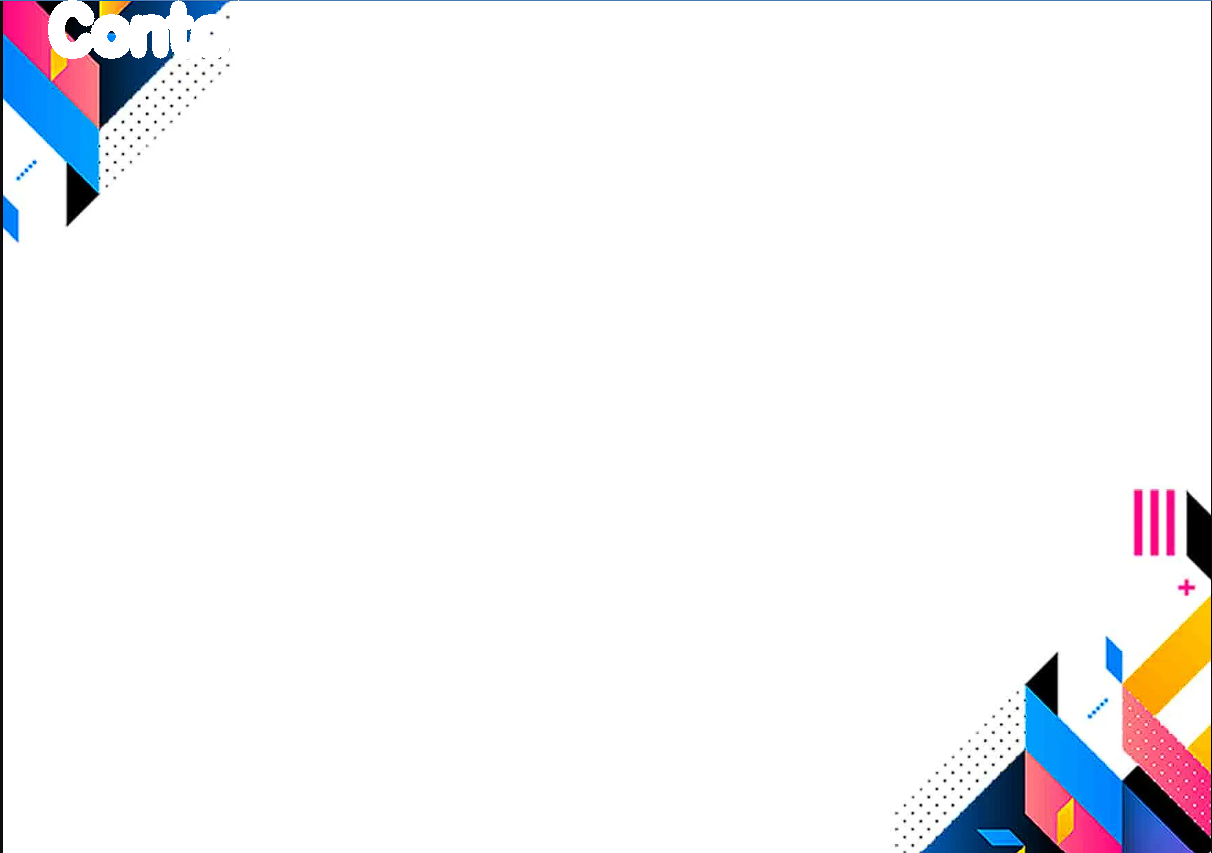
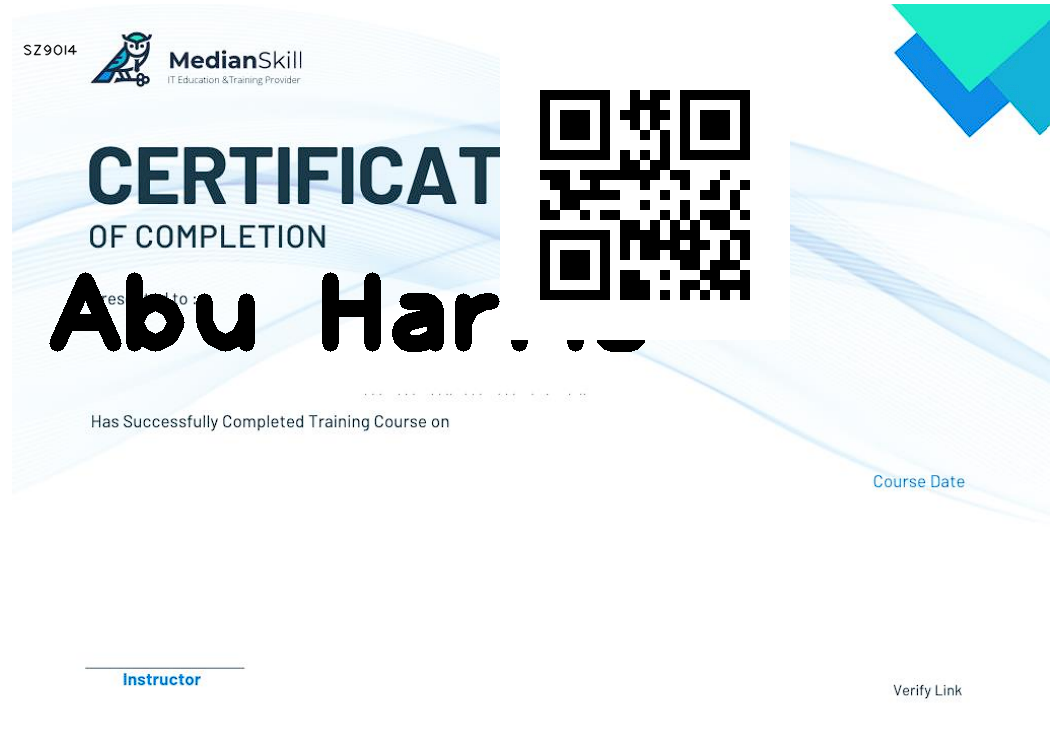
Open CV V.0.3

diff --git a/certificate/views.py b/certificate/views.py
@@ -10,7 +10,6 @@ from django.core.files.storage import FileSystemStorage
 from django.http import HttpResponse
 from django.template.loader import get_template
 from django.views.generic import View
-from xhtml2pdf import pisa
 
 def create(request):
     if request.method == 'POST' and request.FILES['image']:
@@ -27,9 +26,43 @@ def create(request):
         font = cv2.FONT_HERSHEY_PLAIN
         text = request.POST['text'] # memperoleh teks yang diinputkan
         color = (0, 0, 0)
-        thickness = 2
-        org = (50, 400)
+        thickness = 7
+        org = (50, 350)
         img = cv2.putText(img, text, org, font, thickness, color, cv2.LINE_AA)
+
+        #kode unik
+        kode_unik = generate_unique_code()
+        font = cv2.FONT_HERSHEY_PLAIN
+        text = kode_unik
+        color = (0, 0, 0)
+        thickness = 1
+        org = (50, 50)
+        font_scale = 1  # ubah nilai ukuran font menjadi 0.5
+        text_size, _ = cv2.getTextSize(text, font, font_scale, thickness)
+        text_width = text_size[0]
+        text_height = text_size[1]
+        text_x = org[0] - text_width // 2
+        text_y = org[1] + text_height // 2
+        img = cv2.putText(img, text, (text_x, text_y), font, font_scale, color, thickness, cv2.LINE_AA)
+
+
+        #generate qrcodenya
+        qr = qrcode.QRCode(
+            version=1,
+            error_correction=qrcode.constants.ERROR_CORRECT_L,
+            box_size=10,
+            border=4,
+        )
+        qr.add_data(kode_unik)
+        qr.make(fit=True)  
+        img_qr = qr.make_image(fill_color="black", back_color="white")
+        img_qr.save("qrcode.png")
+
+        # Menambahkan QR code ke dalam foto
+        qr = cv2.imread('qrcode.png')
+        x_offset = 500
+        y_offset = 50
+        img[y_offset:y_offset+qr.shape[0], x_offset:x_offset+qr.shape[1]] = qr
 
         # menyimpan gambar
         cv2.imwrite(uploaded_file_url[1:], img)
@@ -39,43 +72,8 @@ def create(request):
     return render(request, 'create.html')
 
     #Generate kode Unik dan QR Code nya
-
-    class GenerateCertificate(View):
-        def get(self, request, *args, **kwargs):
-            #generate kode uniknya
-            kode_unik = self.generate_unique_code()
-            
-            #generate qrcodenya
-            qr = qrcode.QrCode(
-                version=1,
-                error_correction=qrcode.constants.ERROR_CORRECT_L,
-                box_size=10,
-                border=4,
-            )
-            qr.add_data(kode_unik)
-            qr.make(fit=True)
-            
-            img = qr.make_image(fill_color="black", back_color="white")
-            img.save("qrcode.png")
-            
-            #read sertifikat
-            template = get_template('certificate_template.html')
-            
-            #bikin konteks kode unik
-            context = {'kode_unik': kode_unik, 'qrcode': cv2.imread('qrcode.png')}
-            
-            #render sertifikat
-            html = template.render(context)
-            
-            #generate pdf
-            response = HttpResponse(content_type='application/pdf')
-            response['Content-Disposition'] = 'attachment; filename="certificate.pdf"'
-            pisaStatus = pisa.CreatePDF(html, dest=response)
-            
-            return response
-        
-        def generate_unique_code(self, length=6):
-            #generate kode unik
-            chars = string.ascii_uppercase + string.digits + string.digits
-            code = ''.join(random.choice(chars) for _ in range(length))
-            return code
+def generate_unique_code(length=6):
+    #generate kode unik
+    chars = string.ascii_uppercase + string.digits + string.digits
+    code = ''.join(random.choice(chars) for _ in range(length))
+    return code
